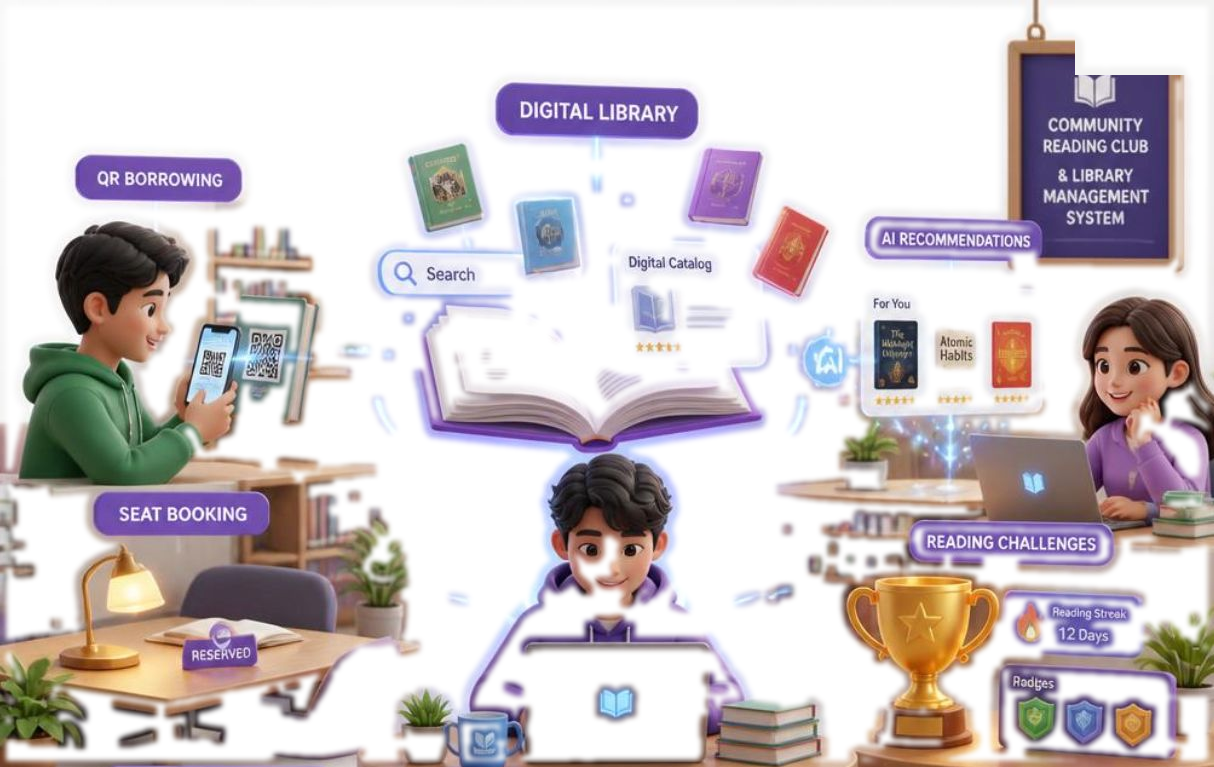
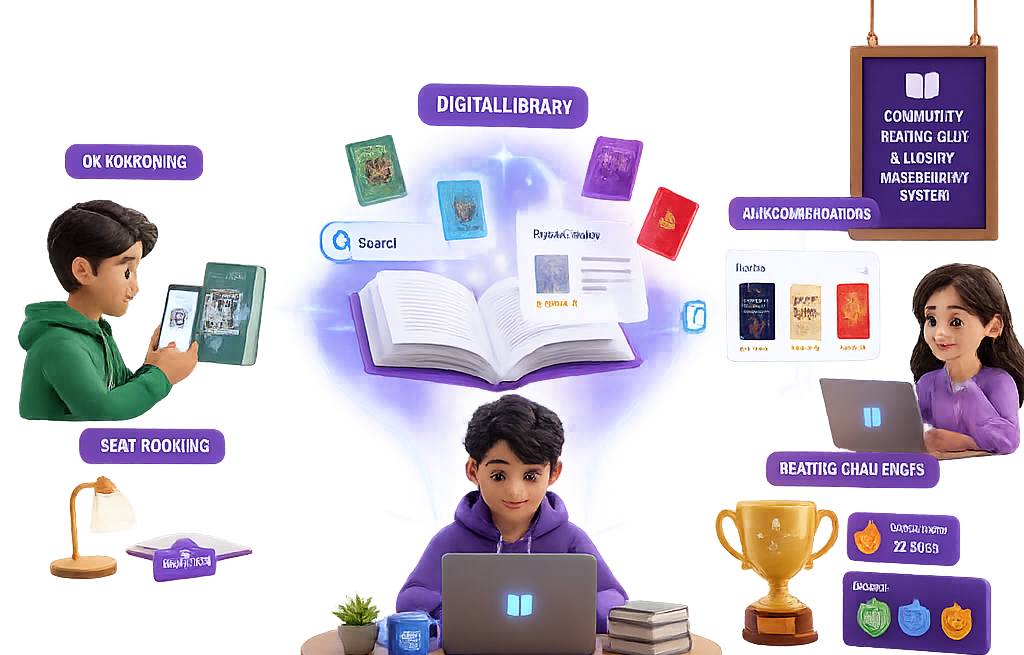
made ui changes

diff --git a/frontend/src/features/landing/components/ContainerScroll.tsx b/frontend/src/features/landing/components/ContainerScroll.tsx
@@ -1,0 +1,94 @@
+import React, { useRef } from 'react';
+import { useScroll, useTransform, motion, MotionValue } from 'framer-motion';
+
+export const ContainerScroll = ({
+  titleComponent,
+  children,
+}: {
+  titleComponent: string | React.ReactNode;
+  children: React.ReactNode;
+}) => {
+  const containerRef = useRef<HTMLDivElement>(null);
+  const { scrollYProgress } = useScroll({
+    target: containerRef,
+  });
+  const [isMobile, setIsMobile] = React.useState(false);
+
+  React.useEffect(() => {
+    const checkMobile = () => {
+      setIsMobile(window.innerWidth <= 768);
+    };
+    checkMobile();
+    window.addEventListener('resize', checkMobile);
+    return () => {
+      window.removeEventListener('resize', checkMobile);
+    };
+  }, []);
+
+  const scaleDimensions = () => {
+    return isMobile ? [0.7, 0.9] : [1.05, 1];
+  };
+
+  const rotate = useTransform(scrollYProgress, [0, 1], [20, 0]);
+  const scale = useTransform(scrollYProgress, [0, 1], scaleDimensions());
+  const translate = useTransform(scrollYProgress, [0, 1], [0, -100]);
+
+  return (
+    <div
+      className="relative flex h-[60rem] items-center justify-center p-2 md:h-[80rem] md:p-20"
+      ref={containerRef}
+    >
+      <div
+        className="w-full relative py-10 md:py-40"
+        style={{
+          perspective: '1000px',
+        }}
+      >
+        <Header translate={translate} titleComponent={titleComponent} />
+        <Card rotate={rotate} translate={translate} scale={scale}>
+          {children}
+        </Card>
+      </div>
+    </div>
+  );
+};
+
+export const Header = ({ translate, titleComponent }: any) => {
+  return (
+    <motion.div
+      style={{
+        translateY: translate,
+      }}
+      className="div mx-auto max-w-5xl text-center"
+    >
+      {titleComponent}
+    </motion.div>
+  );
+};
+
+export const Card = ({
+  rotate,
+  scale,
+  children,
+}: {
+  rotate: MotionValue<number>;
+  scale: MotionValue<number>;
+  translate: MotionValue<number>;
+  children: React.ReactNode;
+}) => {
+  return (
+    <motion.div
+      style={{
+        rotateX: rotate,
+        scale,
+        boxShadow:
+          '0 0 #0000004d, 0 9px 20px #0000004a, 0 37px 37px #00000042, 0 84px 50px #00000026, 0 149px 60px #0000000a, 0 233px 65px #00000003',
+      }}
+      className="mx-auto -mt-12 h-[30rem] w-full max-w-5xl rounded-[30px] border-4 border-[#6C6C6C] bg-[#222222] p-2 shadow-2xl md:h-[40rem] md:p-6"
+    >
+      <div className="h-full w-full overflow-hidden rounded-2xl bg-gray-100 dark:bg-zinc-900 md:rounded-2xl md:p-4">
+        {children}
+      </div>
+    </motion.div>
+  );
+};

diff --git a/frontend/src/features/landing/components/PlatformPreview.tsx b/frontend/src/features/landing/components/PlatformPreview.tsx
@@ -1,0 +1,29 @@
+import { useTranslation } from 'react-i18next';
+
+import { Section } from '@/components/common';
+import platformPreview from '@/assets/platform-preview.png';
+
+import { ContainerScroll } from './ContainerScroll';
+
+export function PlatformPreview() {
+  const { t } = useTranslation();
+
+  return (
+    <Section ariaLabelledBy="platform-preview-heading">
+      <ContainerScroll
+        titleComponent={
+          <h2 id="platform-preview-heading" className="text-3xl font-semibold text-foreground md:text-4xl">
+            {t('landing.preview.title')}
+          </h2>
+        }
+      >
+        <img
+          src={platformPreview}
+          alt={t('landing.preview.imgAlt')}
+          className="mx-auto h-full w-full rounded-2xl object-cover object-top-left"
+          draggable={false}
+        />
+      </ContainerScroll>
+    </Section>
+  );
+}

diff --git a/frontend/src/features/landing/components/LandingPage.tsx b/frontend/src/features/landing/components/LandingPage.tsx
@@ -8,8 +8,8 @@ import { Features } from './Features';
 import { Hero } from './Hero';
 import { HowItWorks } from './HowItWorks';
 import { MoodRecommendation } from './MoodRecommendation';
+import { PlatformPreview } from './PlatformPreview';
 import { SeatAvailability } from './SeatAvailability';
-import { Statistics } from './Statistics';
 import { Testimonials } from './Testimonials';
 import { Footer } from './Footer';
 
@@ -29,7 +29,7 @@ export function LandingPage() {
   return (
     <>
       <Hero />
-      <Statistics />
+      <PlatformPreview />
       <Features />
       <HowItWorks />
       <MoodRecommendation />
